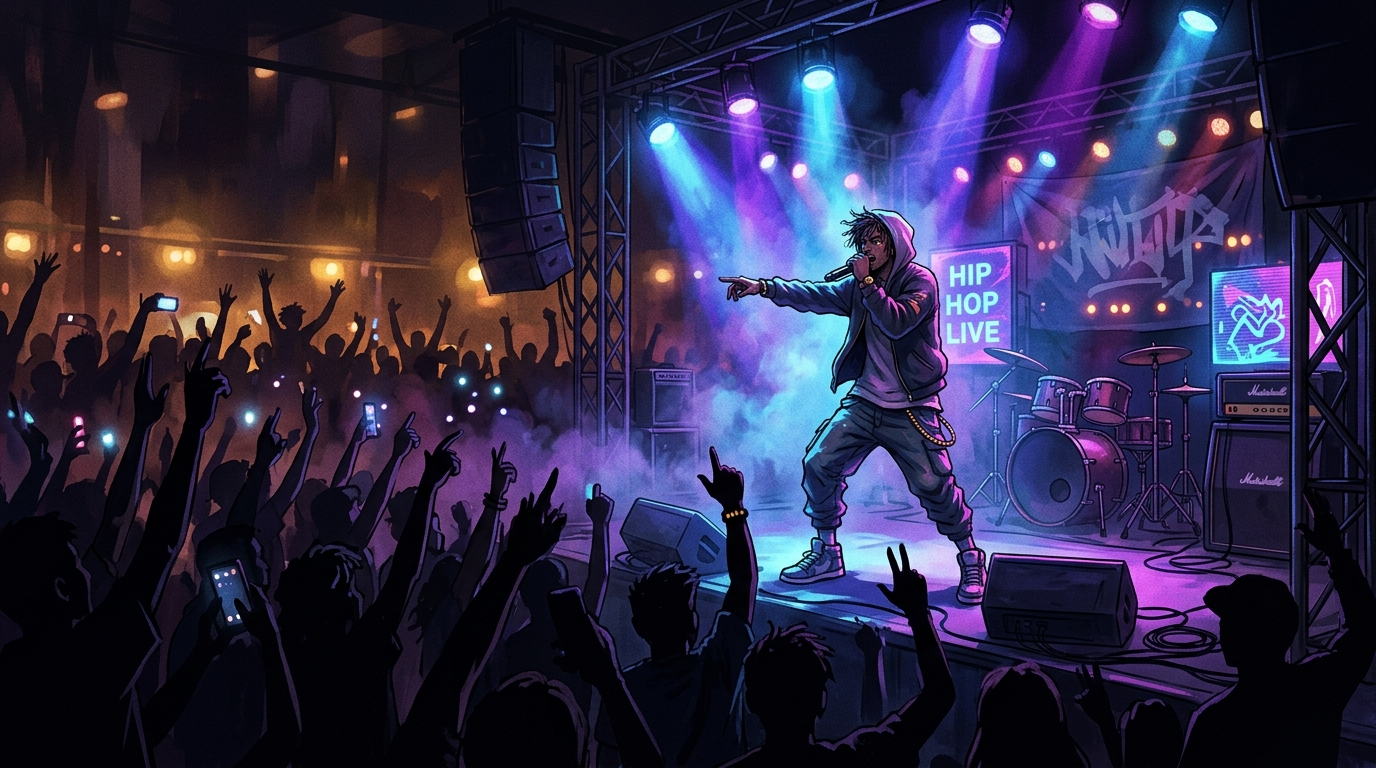
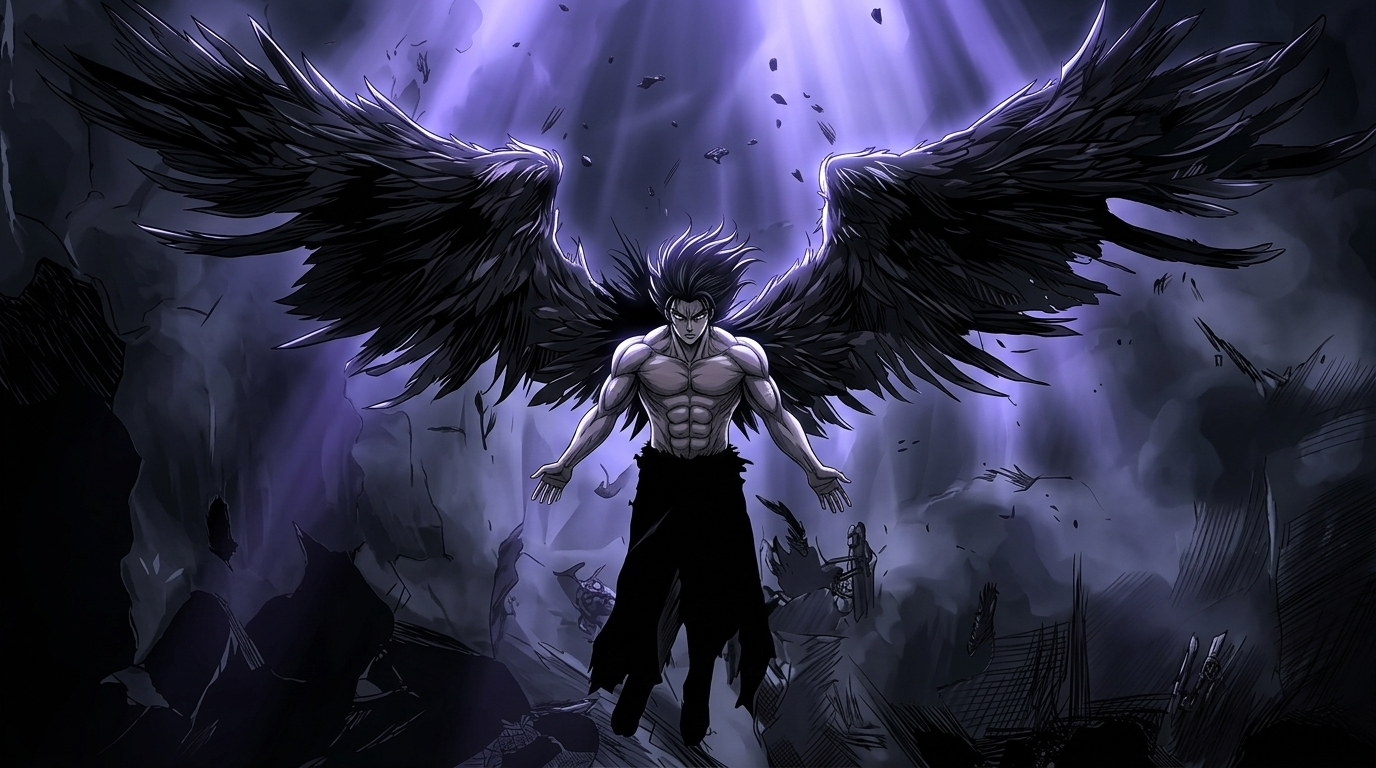
feat: update hiphop artwork with refined anime face, 5 fingers, and polished amethyst glow overlay

diff --git a/app/globals.css b/app/globals.css
@@ -239,25 +239,25 @@ body {
   }
 }
 
-/* Fiery Stage Orange & Red Palette for Hip Hop Concert Theme */
+/* Amethyst & Dark Violet Palette for Hip Hop Cypher Theme */
 [data-theme="hiphop"] {
-  --color-amber: #ff5500;
-  --color-rose: #ff2200;
+  --color-amber: #a855f7;
+  --color-rose: #c084fc;
   --color-ink: #070308;
   --color-paper: #ffffff;
 }
 
-/* Concert Stage Stage Light Glow Overlay */
+/* Atmospheric Cypher Stage Light Glow Overlay */
 [data-theme="hiphop"] .hero-bg-hiphop::after {
   content: "";
   position: absolute;
   inset: 0;
   background: 
-    radial-gradient(circle at 50% 45%, rgba(255, 85, 0, 0.3), transparent 60%),
-    linear-gradient(to bottom, rgba(0, 0, 0, 0.35), transparent 45%, rgba(7, 3, 8, 0.88));
+    radial-gradient(circle at 50% 35%, rgba(168, 85, 247, 0.2), transparent 60%),
+    linear-gradient(to bottom, rgba(0, 0, 0, 0.25), transparent 45%, rgba(7, 3, 8, 0.85));
   mix-blend-mode: color-dodge;
   pointer-events: none;
-  animation: concert-light-glow 4s cubic-bezier(0.4, 0, 0.2, 1) infinite alternate;
+  animation: concert-light-glow 5s cubic-bezier(0.4, 0, 0.2, 1) infinite alternate;
 }
 
 @keyframes concert-light-glow {
